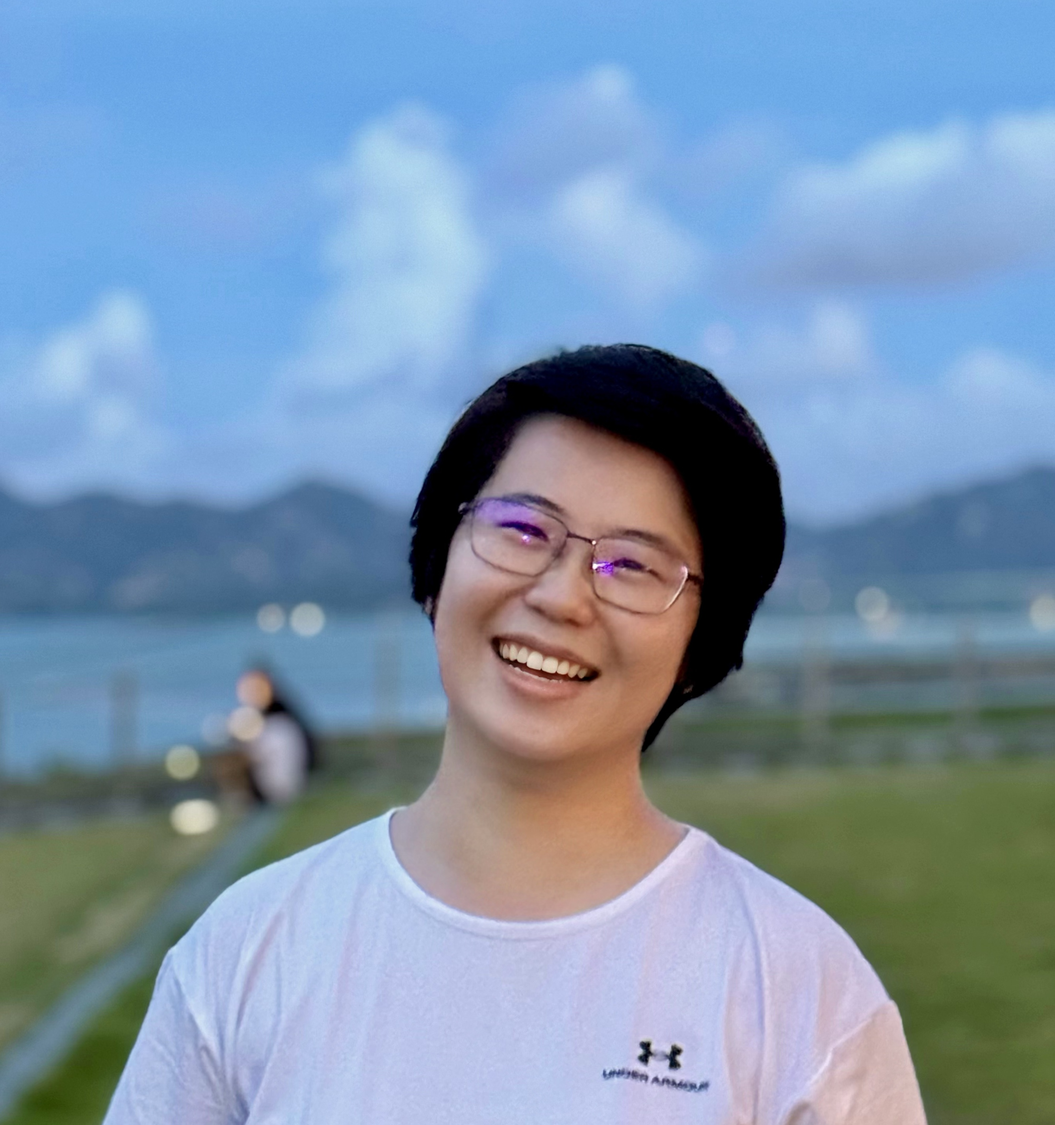
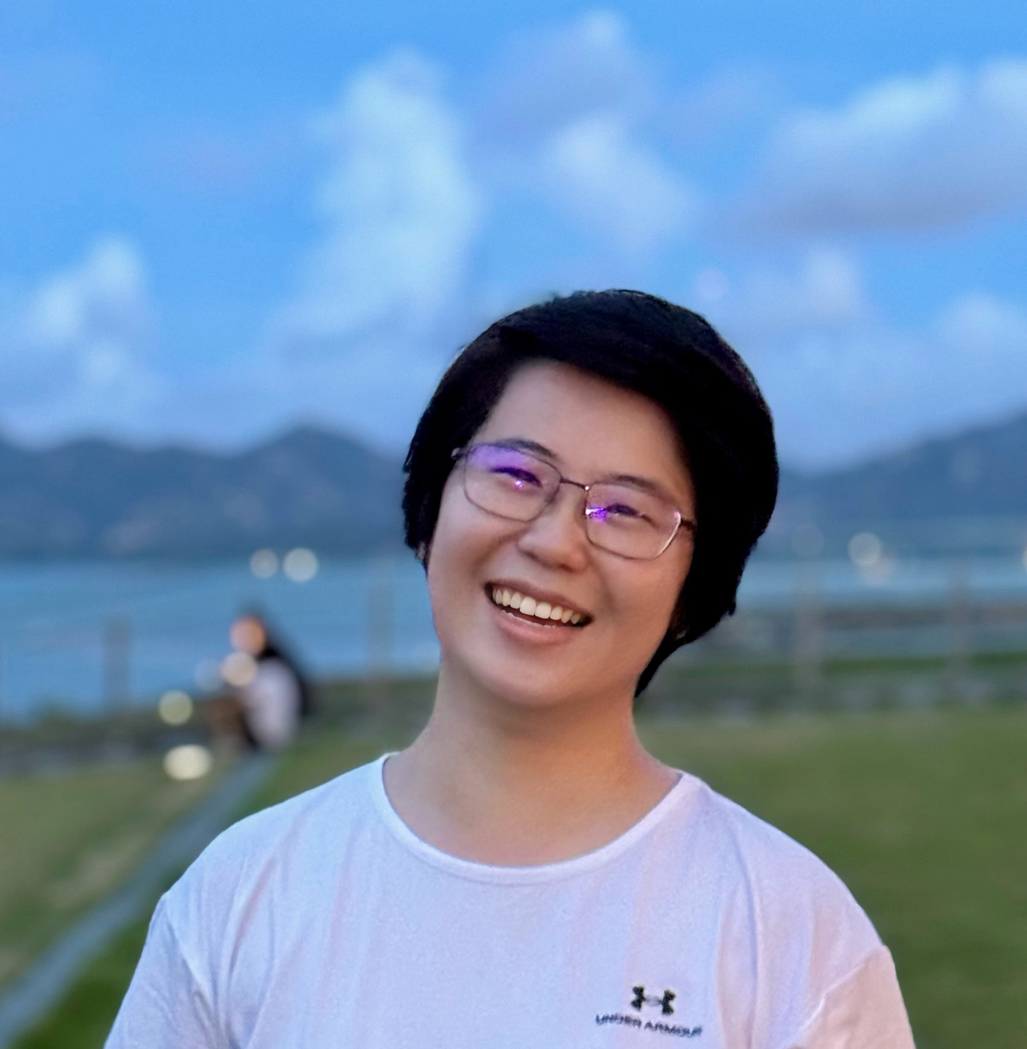
Site updated: 2024-07-17 10:30:21

diff --git a/about/index.html b/about/index.html
@@ -45,19 +45,18 @@
      -->
   
     <!-- Open graph -->
-    <meta name="description" content="To reach me: l2liang [at] cmu [dot] edu         I am a first-year master&#39;s student at Carnegie Mellon University. Before CMU, I was a back-end software engineer a">
+    <meta name="description" content="To reach me: l2liang [at] cmu [dot] edu         I am a first-year master&#39;s student at Carnegie Mellon University. Before CMU, I was a back-end software engine">
 <meta property="og:type" content="website">
 <meta property="og:title" content="About">
 <meta property="og:url" content="https://leungll.site/about/index.html">
 <meta property="og:site_name" content="Lili Liang">
-<meta property="og:description" content="To reach me: l2liang [at] cmu [dot] edu         I am a first-year master&#39;s student at Carnegie Mellon University. Before CMU, I was a back-end software engineer a">
-<meta property="og:image" content="https://cdn.jsdelivr.net/gh/leungll/ImgHosting/img/mario-avater.jpg">
+<meta property="og:description" content="To reach me: l2liang [at] cmu [dot] edu         I am a first-year master&#39;s student at Carnegie Mellon University. Before CMU, I was a back-end software engine">
 <meta property="og:image" content="https://leungll.site/pic/Lili_Liang.jpg">
-<meta property="article:published_time" content="2024-07-15T16:09:29.037Z">
-<meta property="article:modified_time" content="2024-07-15T16:09:29.037Z">
+<meta property="article:published_time" content="2024-07-17T02:30:14.665Z">
+<meta property="article:modified_time" content="2024-07-17T02:30:14.665Z">
 <meta property="article:author" content="Lili Liang 梁莉莉">
 <meta name="twitter:card" content="summary">
-<meta name="twitter:image" content="https://cdn.jsdelivr.net/gh/leungll/ImgHosting/img/mario-avater.jpg">
+<meta name="twitter:image" content="https://leungll.site/pic/Lili_Liang.jpg">
 
     <!-- Canonical -->
     
@@ -116,10 +115,8 @@
     
         <div class="post-md">
             <div>
-    <!-- <div style="width: 28%; float: right!important; margin-left: 3rem;">
-        <img src="https://cdn.jsdelivr.net/gh/leungll/ImgHosting/img/mario-avater.jpg"  width="100%">
-    </div> -->
     <div style="width: 28%; float: right!important; margin-left: 3rem;">
+        <br>
         <img src="../pic/Lili_Liang.jpg"  width="100%">
     </div>
     <div>
